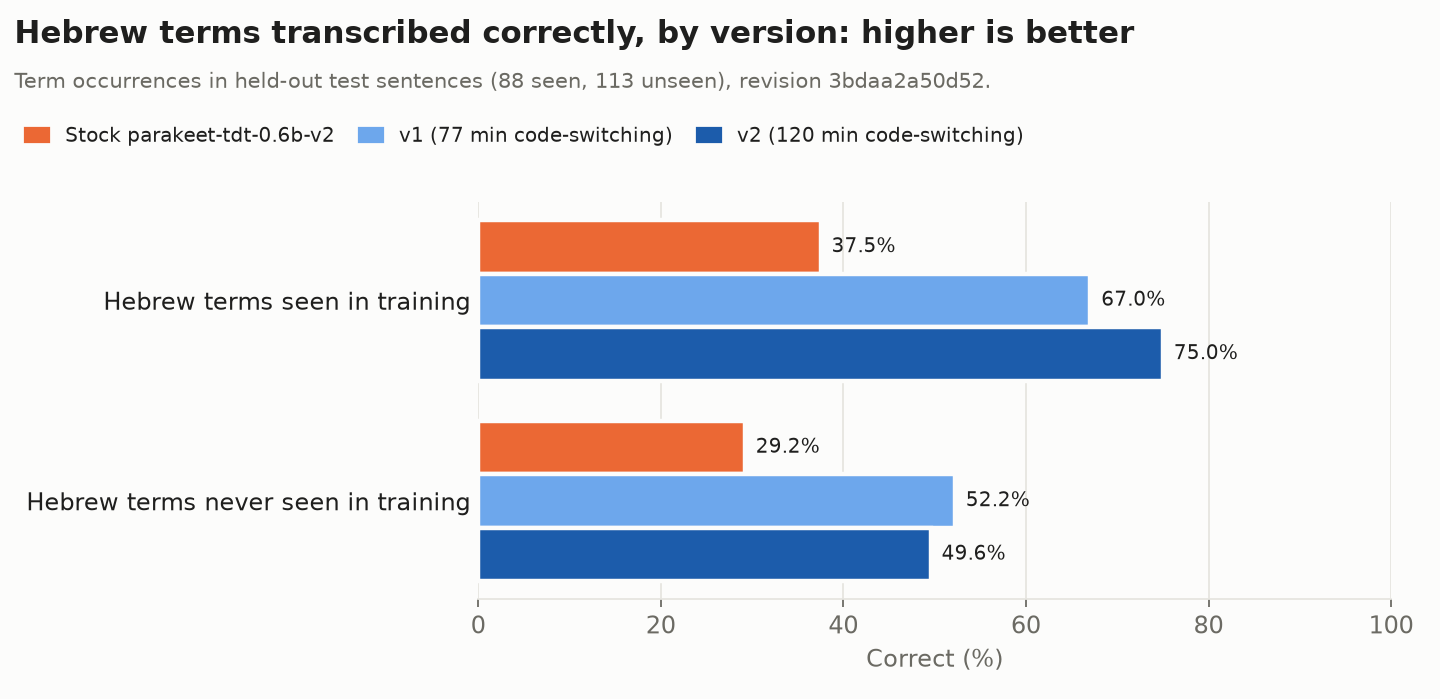
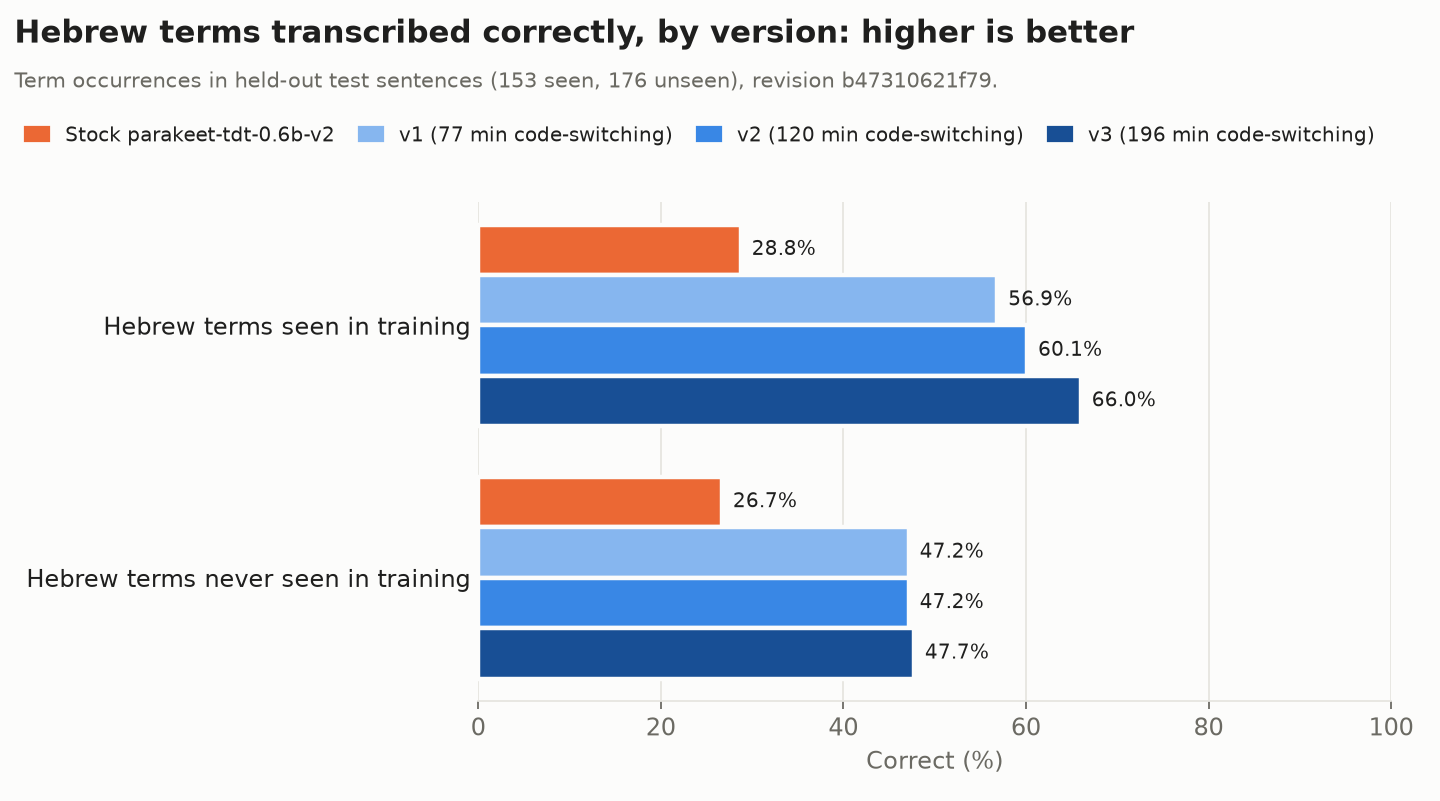
v3 released: 196 min of code-switching, 5.3% CS WER
Results, version history, training data, lifecycle and figures for run r3-en30
(dataset revision b47310621f79, HF commit 728e6f88d4).

diff --git a/README.md b/README.md
@@ -18,15 +18,15 @@ private repository.
 > *Makolet* (מכולת) is the Israeli corner grocery shop. Stock v2 has never heard the word,
 > so it guesses an English-looking name; the fine-tune writes the word itself.
 
-[![Download v2 GGUF Q8_0 (730 MB)](https://img.shields.io/badge/⬇_Download_v2-GGUF_Q8__0_·_730_MB_·_recommended-FFD21E?style=for-the-badge&logo=huggingface&logoColor=black)](https://huggingface.co/danielrosehill/Parakeet-TDT-0.6B-v2-English-Hebrew-Codeswitching/resolve/main/gguf/Parakeet-TDT-0.6B-v2-English-Hebrew-Codeswitching-Q8_0.gguf)
-[![Download v2 GGUF Q4_K_M (475 MB)](https://img.shields.io/badge/⬇_Download_v2-GGUF_Q4__K__M_·_475_MB-FFD21E?style=for-the-badge&logo=huggingface&logoColor=black)](https://huggingface.co/danielrosehill/Parakeet-TDT-0.6B-v2-English-Hebrew-Codeswitching/resolve/main/gguf/Parakeet-TDT-0.6B-v2-English-Hebrew-Codeswitching-Q4_K_M.gguf)
+[![Download v3 GGUF Q8_0 (730 MB)](https://img.shields.io/badge/⬇_Download_v3-GGUF_Q8__0_·_730_MB_·_recommended-FFD21E?style=for-the-badge&logo=huggingface&logoColor=black)](https://huggingface.co/danielrosehill/Parakeet-TDT-0.6B-v2-English-Hebrew-Codeswitching/resolve/main/gguf/Parakeet-TDT-0.6B-v2-English-Hebrew-Codeswitching-Q8_0.gguf)
+[![Download v3 GGUF Q4_K_M (475 MB)](https://img.shields.io/badge/⬇_Download_v3-GGUF_Q4__K__M_·_475_MB-FFD21E?style=for-the-badge&logo=huggingface&logoColor=black)](https://huggingface.co/danielrosehill/Parakeet-TDT-0.6B-v2-English-Hebrew-Codeswitching/resolve/main/gguf/Parakeet-TDT-0.6B-v2-English-Hebrew-Codeswitching-Q4_K_M.gguf)
 [![Get Offline Voice Input on Google Play](https://img.shields.io/badge/Android_app-Offline_Voice_Input-34A853?style=for-the-badge&logo=googleplay&logoColor=white)](https://play.google.com/store/apps/details?id=dev.notune.transcribe)
 [![Try the demo](https://img.shields.io/badge/Try_it-Demo_Space-FF9D00?style=for-the-badge&logo=huggingface&logoColor=white)](https://huggingface.co/spaces/danielrosehill/English-Hebrew-Codeswitching-Parakeet-Demo)
 [![Model card](https://img.shields.io/badge/Model-.nemo_·_2.47_GB-555555?style=for-the-badge&logo=nvidia&logoColor=76B900)](https://huggingface.co/danielrosehill/Parakeet-TDT-0.6B-v2-English-Hebrew-Codeswitching)
 
 ### Which file should I download?
 
-All links below are the **latest version, v2** (2026-10-15); they always point to the newest
+All links below are the **latest version, v3** (2026-10-18); they always point to the newest
 release. Earlier versions, with permanent links, are under **Version history**.
 
 | You want to… | Download | Run it with |
@@ -38,7 +38,7 @@ release. Earlier versions, with permanent links, are under **Version history**.
 
 **If unsure, take Q8_0.** It is the closest to full accuracy that still runs on a phone, and
 on desktop CPUs it was also *faster* than Q4_K_M: about 3× realtime against 1.4× on 8 cores.
-On five held-out test clips, Q8_0 matched the `.nemo` word for word; Q4_K_M differed on one word (v2, 2026-10-15). Speed on phones has not
+On five held-out test clips, Q8_0 matched the `.nemo` word for word; Q4_K_M differed on one word (v3, 2026-10-18). Speed on phones has not
 been measured yet. ONNX exports for sherpa-onnx apps (Voxtype, Dictus) are not published
 yet.
 
@@ -60,13 +60,13 @@ yet.
 
 Both GGUFs were converted with transcribe.cpp **v0.1.3**, the version the app links. On five
 held-out test clips, Q8_0 gave word-for-word the same transcripts as the PyTorch model and
-Q4_K_M differed on one word (v2, checked 2026-10-15).
+Q4_K_M differed on one word (v3, checked 2026-10-18).
 
 **Linux:** [Handy](https://github.com/cjpais/Handy) loads the same GGUF. Copy it into
 `~/.local/share/com.pais.handy/models/` with its own file name; a name that matches a stock
 catalogue file is treated as the stock model.
 
-**Status (2026-10-15): v2 published** (120 min of code-switching). Data collection continues toward v3 at 180 min.
+**Status (2026-10-18): v3 published** (196 min of code-switching). Data collection continues toward v4 at 270 min.
 Model: [`danielrosehill/Parakeet-TDT-0.6B-v2-English-Hebrew-Codeswitching`](https://huggingface.co/danielrosehill/Parakeet-TDT-0.6B-v2-English-Hebrew-Codeswitching)
 
 ## The problem
@@ -101,28 +101,30 @@ balance, by audio duration:
 | ~10% | Public English replay (LibriSpeech or Common Voice) |
 
 No paper gives a ratio for this exact case (one speaker, English as the main language, one
-or two Hebrew words per sentence), so the pilot compares 0%, 15% and 30% English and keeps
-the best on both test sets: held-out code-switching and general English.
+or two Hebrew words per sentence). v1 to v3 all used about 30% English without a
+comparison; v4 is planned to compare 70/30, 80/20, 90/10 and 100/0 code-switching /
+English and keep the best on both test sets: held-out code-switching and general English.
 
 Sources: [Liu et al. 2025](https://arxiv.org/abs/2509.24310),
 [Shah et al. 2020](https://arxiv.org/abs/2006.00782),
 [Pekarek Rosin & Siegert 2023](https://arxiv.org/abs/2307.07280),
 [CS ASR systematic review 2025](https://arxiv.org/abs/2507.07741).
 
-## Training data (v2)
+## Training data (v3)
 
-Everything v2 was trained on, by dataset. The training job pins one revision of
-`Read-Aloud-Voice-Sentences` (`3bdaa2a50d52`) and adds public English replay at train time.
+Everything v3 was trained on, by dataset. The training job pins one revision of
+`Read-Aloud-Voice-Sentences` (`b47310621f79`) and adds public English replay at train time.
 
-| Dataset | Whose | What v2 used from it | Licence |
+| Dataset | Whose | What v3 used from it | Licence |
 |---|---|---|---|
-| [`Read-Aloud-Voice-Sentences`](https://huggingface.co/datasets/danielrosehill/Read-Aloud-Voice-Sentences) | Mine | **The training source.** 1,248 code-switching clips (120.1 min): 754 phone takes (87.6 min), 55 laptop takes (5.7 min) and 439 recordings imported from the desktop-mic round below (26.8 min). Plus 224 clips of my own monolingual English (28.7 min). | CC-BY-4.0 |
+| [`Read-Aloud-Voice-Sentences`](https://huggingface.co/datasets/danielrosehill/Read-Aloud-Voice-Sentences) | Mine | **The training source.** 1,921 code-switching clips (196.1 min): 1,482 takes from the capture app, mostly on the phone (169.3 min), and 439 recordings imported from the desktop-mic round below (26.8 min). Plus 338 clips of my own monolingual English (42.9 min). | CC-BY-4.0 |
 | [`English-Hebrew-Codeswitching-Sentences`](https://huggingface.co/datasets/danielrosehill/English-Hebrew-Codeswitching-Sentences) | Mine | The code-switching phone takes, published on their own. Same audio as above, not extra data. | CC-BY-4.0 |
 | [`English-Hebrew-Mixed-Sentences`](https://huggingface.co/datasets/danielrosehill/English-Hebrew-Mixed-Sentences) | Mine | An earlier desktop-mic round (2025-11-17). 439 of its recordings are imported into `Read-Aloud-Voice-Sentences` with fixed transcripts, and counted there. | MIT |
-| [LibriSpeech](https://huggingface.co/datasets/openslr/librispeech_asr) `train-clean-100` with [LibriSpeech-PC](https://www.openslr.org/145/) transcripts | Public | 17.3 min of English replay, so the model keeps general English. LibriSpeech-PC supplies the cased, punctuated transcripts. `test-clean` (200 utterances) is used only for evaluation. | CC-BY-4.0 |
+| [LibriSpeech](https://huggingface.co/datasets/openslr/librispeech_asr) `train-clean-100` with [LibriSpeech-PC](https://www.openslr.org/145/) transcripts | Public | 28.1 min of English replay, so the model keeps general English. LibriSpeech-PC supplies the cased, punctuated transcripts. `test-clean` (200 utterances) is used only for evaluation. | CC-BY-4.0 |
 
-Evaluation uses the held-out test split of `Read-Aloud-Voice-Sentences` (121 code-switching
-clips, term-disjoint) and is never trained on.
+Actual mix by duration: 73.4% code-switching, 16.1% own English, 10.5% replay. Evaluation
+uses the held-out test split of `Read-Aloud-Voice-Sentences` (219 code-switching clips,
+term-disjoint) and is never trained on.
 
 ## Links
 
@@ -150,87 +152,91 @@ clips, term-disjoint) and is never trained on.
 | 3. Data collection | **In progress** | See "Data so far" |
 | 4. Baseline | Done, 2026-10-15 | Stock v2 got 28% of Hebrew term occurrences right across 615 terms |
 | 5. Pilot fine-tune | Done, 2026-10-15 | v1, 77 min of code-switching |
-| 6. Retrains | v2 done, 2026-10-15 | v2 at 120 min, ~28% English. Next: v3 at 180 min, with the 0/15/30% English comparison. |
-| 7. On-device export | GGUF done, 2026-10-15 | v2 re-exported: Q8_0 identical to PyTorch on 5 test clips, Q4_K_M off by one word. Phone test pending. |
-| 8. Release | v2 released | The base model is CC-BY-4.0, so fine-tunes are published openly |
+| 6. Retrains | v3 done, 2026-10-18 | v2 at 120 min, v3 at 196 min (~27% English each). Next: v4 at 270 min, with the 70/80/90/100% code-switching comparison. |
+| 7. On-device export | GGUF, ONNX, sherpa-onnx done | v3 exported 2026-10-18: Q8_0 identical to PyTorch on 5 test clips, Q4_K_M and sherpa-onnx int8 off by one word. Phone test pending. |
+| 8. Release | v3 released, 2026-10-18 | The base model is CC-BY-4.0, so fine-tunes are published openly |
 
 ## Results
 
-**v2** (run `r2-en30`, 2026-10-15) was trained from stock v2 on 120 min of code-switching,
-29 min of the speaker's English and 17 min of LibriSpeech replay. It took 23 minutes on one
-GPU. Both models were scored on the current test split (121 code-switching clips).
+**v3** (run `r3-en30`, 2026-10-18) was trained from stock v2 on 196 min of code-switching,
+43 min of the speaker's English and 28 min of LibriSpeech replay. It took 29 minutes on one
+GPU. Both models were scored on the current test split (219 code-switching clips).
 
-| Test set | Stock v2 | Fine-tune v2 |
+| Test set | Stock v2 | Fine-tune v3 |
 |---|---|---|
-| Code-switching, held-out test (WER) | 9.9% | **4.8%** |
-| Hebrew terms **never seen in training**: share correct | 29% | **50%** |
-| Hebrew terms seen in training: share correct | 38% | **75%** |
-| Speaker's plain English (WER) | 2.7% | 2.4% |
-| LibriSpeech test-clean (WER) | 1.2% | 1.1% |
-| Long form, ~3-minute files (WER) | 7.8% | **4.5%** |
+| Code-switching, held-out test (WER) | 10.9% | **5.3%** |
+| Hebrew terms **never seen in training**: share correct | 27% | **48%** |
+| Hebrew terms seen in training: share correct | 29% | **66%** |
+| Speaker's plain English (WER) | 3.5% | **2.9%** |
+| LibriSpeech test-clean (WER) | 1.2% | **1.0%** |
+| Long form, ~3-minute files (WER) | 9.0% | **5.0%** |
 
 ![Word error rate, stock v2 vs the fine-tune](figures/wer.png)
 
 ![Hebrew terms transcribed correctly, stock v2 vs the fine-tune](figures/terms.png)
 
-v1 and v2 side by side, on the same test split, are under **Version history** below.
+Every version side by side, on the same test split, is under **Version history** below. On
+the separate, frozen [public benchmark](https://huggingface.co/spaces/danielrosehill/English-Hebrew-Codeswitching-ASR-Leaderboard),
+v3 is first at 67.4% Hebrew term recall (v2 65.7%, Whisper Large V3 45.9%, stock Parakeet
+v2 32.6%).
 
 WER here is lowercase with punctuation removed. English did not get worse. The jump on
 unseen terms suggests the model learned how this speaker's Hebrew maps to the
 romanization, not only the training words.
 
-![How stock v2 handles 615 Hebrew terms](figures/baseline_terms.png)
+![How stock v2 handles the Hebrew terms in the training recordings](figures/baseline_terms.png)
 
-The baseline also showed which words matter. Stock v2 already gets 165 of 615 terms right
-every time: mostly names, well-known places and words that are already English (Shabbat,
-Pesach, Bamba). It never gets 390 right: Misrad Hapnim, Bituach Leumi, tzaharon, rofe
-mishpacha, Motzei Shabbat, Pikud Haoref. Recording now concentrates on the second group.
+The baseline also shows which words matter. Across 1,139 terms in the training recordings,
+stock v2 gets 258 right every time: mostly names, well-known places and words that are
+already English. It never gets 706 right: challah, cheshbonit, sabich, Motzei Shabbat,
+osek patur, tachana merkazit. Recording concentrates on that second group.
 
 ### Version history
 
-Every version is re-scored on the **same** test split as the newest one, so the rows below
-compare like with like. The download links at the top of this page are always the latest version;
-the links in the last row stay pinned to each version's files forever.
+Every version is re-scored on the **same** test split as the newest one (revision
+`b47310621f79`), so the rows below compare like with like. The download links at the top of
+this page are always the latest version; the links in the last row stay pinned to each
+version's files forever.
 
 ![Word error rate by version](figures/versions_wer.png)
 
 ![Hebrew terms transcribed correctly, by version](figures/versions_terms.png)
 
-| | Stock v2 | v1 | **v2 (latest)** |
-|---|---|---|---|
-| Released | | 2026-10-15 | 2026-10-15 |
-| Code-switching training audio | | 77 min | 120 min |
-| Code-switching WER | 9.9% | 5.0% | **4.8%** |
-| … phone recordings | 9.4% | 4.7% | **4.3%** |
-| … desktop-mic recordings (30 clips) | 13.8% | **7.1%** | 8.6% |
-| Hebrew terms seen in training, correct | 38% | 67% | **75%** |
-| Hebrew terms never seen in training, correct | 29% | **52%** | 50% |
-| Speaker's plain English WER | 2.7% | 2.5% | **2.4%** |
-| LibriSpeech test-clean WER | 1.2% | 1.4% | **1.1%** |
-| Long-form WER | 7.8% | 4.6% | **4.5%** |
-| Pinned files | | [Q8_0](https://huggingface.co/danielrosehill/Parakeet-TDT-0.6B-v2-English-Hebrew-Codeswitching/resolve/ebc0e7aff1/gguf/Parakeet-TDT-0.6B-v2-English-Hebrew-Codeswitching-Q8_0.gguf) · [Q4_K_M](https://huggingface.co/danielrosehill/Parakeet-TDT-0.6B-v2-English-Hebrew-Codeswitching/resolve/ebc0e7aff1/gguf/Parakeet-TDT-0.6B-v2-English-Hebrew-Codeswitching-Q4_K_M.gguf) · [.nemo](https://huggingface.co/danielrosehill/Parakeet-TDT-0.6B-v2-English-Hebrew-Codeswitching/resolve/ebc0e7aff1/Parakeet-TDT-0.6B-v2-English-Hebrew-Codeswitching.nemo) | [Q8_0](https://huggingface.co/danielrosehill/Parakeet-TDT-0.6B-v2-English-Hebrew-Codeswitching/resolve/e1541065f8/gguf/Parakeet-TDT-0.6B-v2-English-Hebrew-Codeswitching-Q8_0.gguf) · [Q4_K_M](https://huggingface.co/danielrosehill/Parakeet-TDT-0.6B-v2-English-Hebrew-Codeswitching/resolve/e1541065f8/gguf/Parakeet-TDT-0.6B-v2-English-Hebrew-Codeswitching-Q4_K_M.gguf) · [.nemo](https://huggingface.co/danielrosehill/Parakeet-TDT-0.6B-v2-English-Hebrew-Codeswitching/resolve/e1541065f8/Parakeet-TDT-0.6B-v2-English-Hebrew-Codeswitching.nemo) |
+| | Stock v2 | v1 | v2 | **v3 (latest)** |
+|---|---|---|---|---|
+| Released | | 2026-10-15 | 2026-10-15 | 2026-10-18 |
+| Code-switching training audio | | 77 min | 120 min | 196 min |
+| Code-switching WER | 10.9% | 6.0% | 5.8% | **5.3%** |
+| … phone recordings | 10.7% | 6.0% | 5.6% | **5.1%** |
+| … desktop-mic recordings (30 clips) | 13.8% | **7.1%** | 8.6% | 8.6% |
+| Hebrew terms seen in training, correct | 29% | 57% | 60% | **66%** |
+| Hebrew terms never seen in training, correct | 27% | 47% | 47% | **48%** |
+| Speaker's plain English WER | 3.5% | 3.2% | **2.6%** | 2.9% |
+| LibriSpeech test-clean WER | 1.2% | 1.4% | 1.1% | **1.0%** |
+| Long-form WER | 9.0% | 5.9% | 5.6% | **5.0%** |
+| Pinned files | | [Q8_0](https://huggingface.co/danielrosehill/Parakeet-TDT-0.6B-v2-English-Hebrew-Codeswitching/resolve/ebc0e7aff1/gguf/Parakeet-TDT-0.6B-v2-English-Hebrew-Codeswitching-Q8_0.gguf) · [Q4_K_M](https://huggingface.co/danielrosehill/Parakeet-TDT-0.6B-v2-English-Hebrew-Codeswitching/resolve/ebc0e7aff1/gguf/Parakeet-TDT-0.6B-v2-English-Hebrew-Codeswitching-Q4_K_M.gguf) · [.nemo](https://huggingface.co/danielrosehill/Parakeet-TDT-0.6B-v2-English-Hebrew-Codeswitching/resolve/ebc0e7aff1/Parakeet-TDT-0.6B-v2-English-Hebrew-Codeswitching.nemo) | [Q8_0](https://huggingface.co/danielrosehill/Parakeet-TDT-0.6B-v2-English-Hebrew-Codeswitching/resolve/e1541065f8/gguf/Parakeet-TDT-0.6B-v2-English-Hebrew-Codeswitching-Q8_0.gguf) · [Q4_K_M](https://huggingface.co/danielrosehill/Parakeet-TDT-0.6B-v2-English-Hebrew-Codeswitching/resolve/e1541065f8/gguf/Parakeet-TDT-0.6B-v2-English-Hebrew-Codeswitching-Q4_K_M.gguf) · [.nemo](https://huggingface.co/danielrosehill/Parakeet-TDT-0.6B-v2-English-Hebrew-Codeswitching/resolve/e1541065f8/Parakeet-TDT-0.6B-v2-English-Hebrew-Codeswitching.nemo) | [Q8_0](https://huggingface.co/danielrosehill/Parakeet-TDT-0.6B-v2-English-Hebrew-Codeswitching/resolve/728e6f88d4/gguf/Parakeet-TDT-0.6B-v2-English-Hebrew-Codeswitching-Q8_0.gguf) · [Q4_K_M](https://huggingface.co/danielrosehill/Parakeet-TDT-0.6B-v2-English-Hebrew-Codeswitching/resolve/728e6f88d4/gguf/Parakeet-TDT-0.6B-v2-English-Hebrew-Codeswitching-Q4_K_M.gguf) · [.nemo](https://huggingface.co/danielrosehill/Parakeet-TDT-0.6B-v2-English-Hebrew-Codeswitching/resolve/728e6f88d4/Parakeet-TDT-0.6B-v2-English-Hebrew-Codeswitching.nemo) |
 
-**What v2 changed:** the extra 43 minutes of audio made the model better at Hebrew words it
-has recordings of (67% → 75%) and slightly better on phone dictation. Words it has never
-heard did not improve (52% vs 50% is a 3-hit difference out of 113: noise). The older
-desktop-mic clips got a little worse; that is 30 clips of audio the model is not used on.
-Full per-utterance results: `evals/r2-*.json` in the [model repo](https://huggingface.co/danielrosehill/Parakeet-TDT-0.6B-v2-English-Hebrew-Codeswitching/tree/main/evals).
+**What v3 changed:** 76 more minutes of code-switched audio lowered code-switching WER from
+5.8% to 5.3% and long-form WER from 5.6% to 5.0%, and Hebrew words with recordings went from
+60% to 66% correct. Words the model has never heard barely moved (47% → 48%, one hit out of
+176). Three versions now show the same thing: more takes of a word help that word, but more
+audio alone does not help new words. Full per-utterance results: `evals/r3-*.json` in the
+[model repo](https://huggingface.co/danielrosehill/Parakeet-TDT-0.6B-v2-English-Hebrew-Codeswitching/tree/main/evals);
+the scores are also in the model card's `model-index` metadata.
 
-### Data so far (2026-10-15, revision used for v2)
+### Data so far (2026-10-18, revision used for v3)
 
 Code-switching takes, from the `metadata.jsonl` files on Hugging Face:
 
-| Split | Clips | Audio | Of which recorded on the phone |
+| Split | Clips | Audio | Of which from the capture app |
 |---|---|---|---|
-| train | 1,248 | 120 min | 88 min |
-| test | 121 | 14 min | |
+| train | 1,921 | 196 min | 169 min |
+| test | 219 | 25 min | |
 
-The rest came from the earlier desktop-mic round. The same split has 26 min of the speaker's
-own monolingual English (29 min), but only 6 min of it is plain
-English; the rest is tech and names sentences. So plain English is now a recording
-priority. 529 distinct Hebrew terms appear in
-train, but most only once, so recording is now weighted toward terms with only one or two
-takes.
+The rest came from the earlier desktop-mic round. The same revision has 43 min of the
+speaker's own monolingual English, 10 min of it plain English and the rest names, tech and
+numbers sentences. 1,000 distinct Hebrew terms appear in the code-switching train rows; 715
+of them have only one or two takes, so recording is weighted toward those.
 
 ## In this repo
 
@@ -260,6 +266,7 @@ takes.
 
 Newest first. One line per milestone.
 
+- **2026-10-18**: **v3 released** (run `r3-en30`, 196 min of code-switching): code-switching WER 5.3% (stock v2 10.9%, v2 5.8%), Hebrew terms with recordings 66% correct (v2 60%), no loss of English. GGUF, ONNX and sherpa-onnx exports refreshed; the model card now carries `model-index` eval metadata. First on the public benchmark at 67.4% term recall.
 - **2026-10-17**: Sentence bank grows from 9,443 to 9,735 prompts with a medical pack: health-fund admin words, medical terms, hospitals and 58 Israeli drug trade names (Acamol-family, Moxypen, Lorivan…), 292 sentences. Published takes gain a `prompt_origin` column (manual / dataset / generated).
 - **2026-10-17**: Sentence bank grows from 8,325 to 9,443 prompts with a tech pack of 377 terms (cloud-native projects, AI model families, developer tools and libraries), for a planned second fine-tune on tech vocabulary and accent. These sentences are English only, with no code-switching. Exported to `sentences/`.
 - **2026-10-17**: Sentence bank grows from 7,697 to 8,325 prompts with a Jewish observance pack (kashrut and certification bodies, Shabbat, Daf Yomi and Torah study, prayer, holiday prep), weighted to everyday words rather than once-a-year ones. New subset dataset [`General-English-Sentences`](https://huggingface.co/datasets/danielrosehill/General-English-Sentences): plain English takes with no Hebrew, names or tech, for accent-only fine-tuning.
